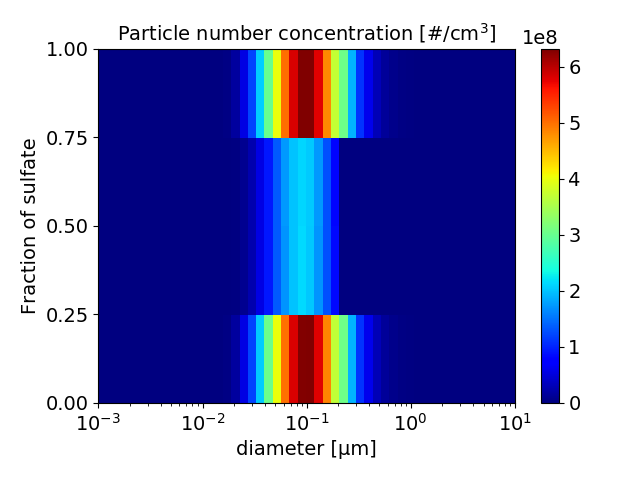
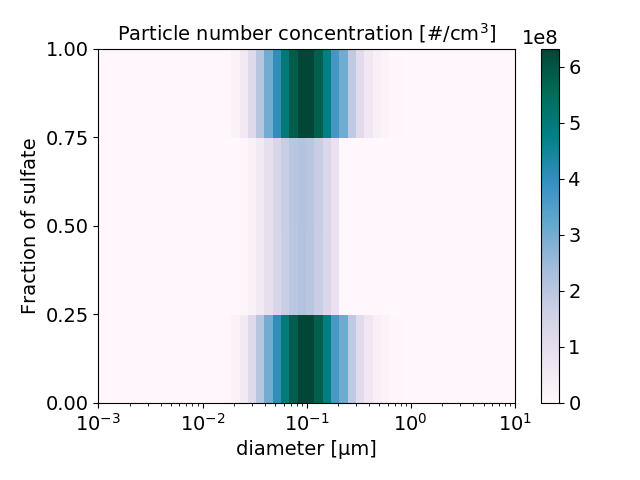
Improve color scale.

diff --git a/graph/cond_2D.py b/graph/cond_2D.py
@@ -65,9 +65,10 @@ for j in range(sizebin_ssh) :
 	  	num_out[k][j] += float(values[-1])
 print  num_out[0][49], num_init[9][49]
 
-jetcmap = cm.get_cmap("jet", 500) #generate a jet map with 10 values
-jet_vals = jetcmap(np.arange(500)) #extract those values as an array
-cmap = ListedColormap(jet_vals)
+#jetcmap = cm.get_cmap("jet", 500) #generate a jet map with 10 values
+#jet_vals = jetcmap(np.arange(500)) #extract those values as an array
+#cmap = ListedColormap(jet_vals)
+cmap = plt.get_cmap('PuBuGn')
 
 composition_bounds = composition_bounds.transpose()
 vmax0 = num_out.max()

diff --git a/graph/coag_2D.py b/graph/coag_2D.py
@@ -61,9 +61,10 @@ for j in range(sizebin_ssh) :
 	  	num_out[k][j] = float(values[-1])
 
 
-jetcmap = cm.get_cmap("jet", 500) #generate a jet map with 10 values
-jet_vals = jetcmap(np.arange(500)) #extract those values as an array
-cmap = ListedColormap(jet_vals)
+#jetcmap = cm.get_cmap("jet", 500) #generate a jet map with 10 values
+#jet_vals = jetcmap(np.arange(500)) #extract those values as an array
+#cmap = ListedColormap(jet_vals)
+cmap = plt.get_cmap('PuBuGn')
 
 composition_bounds = composition_bounds.transpose()
 
